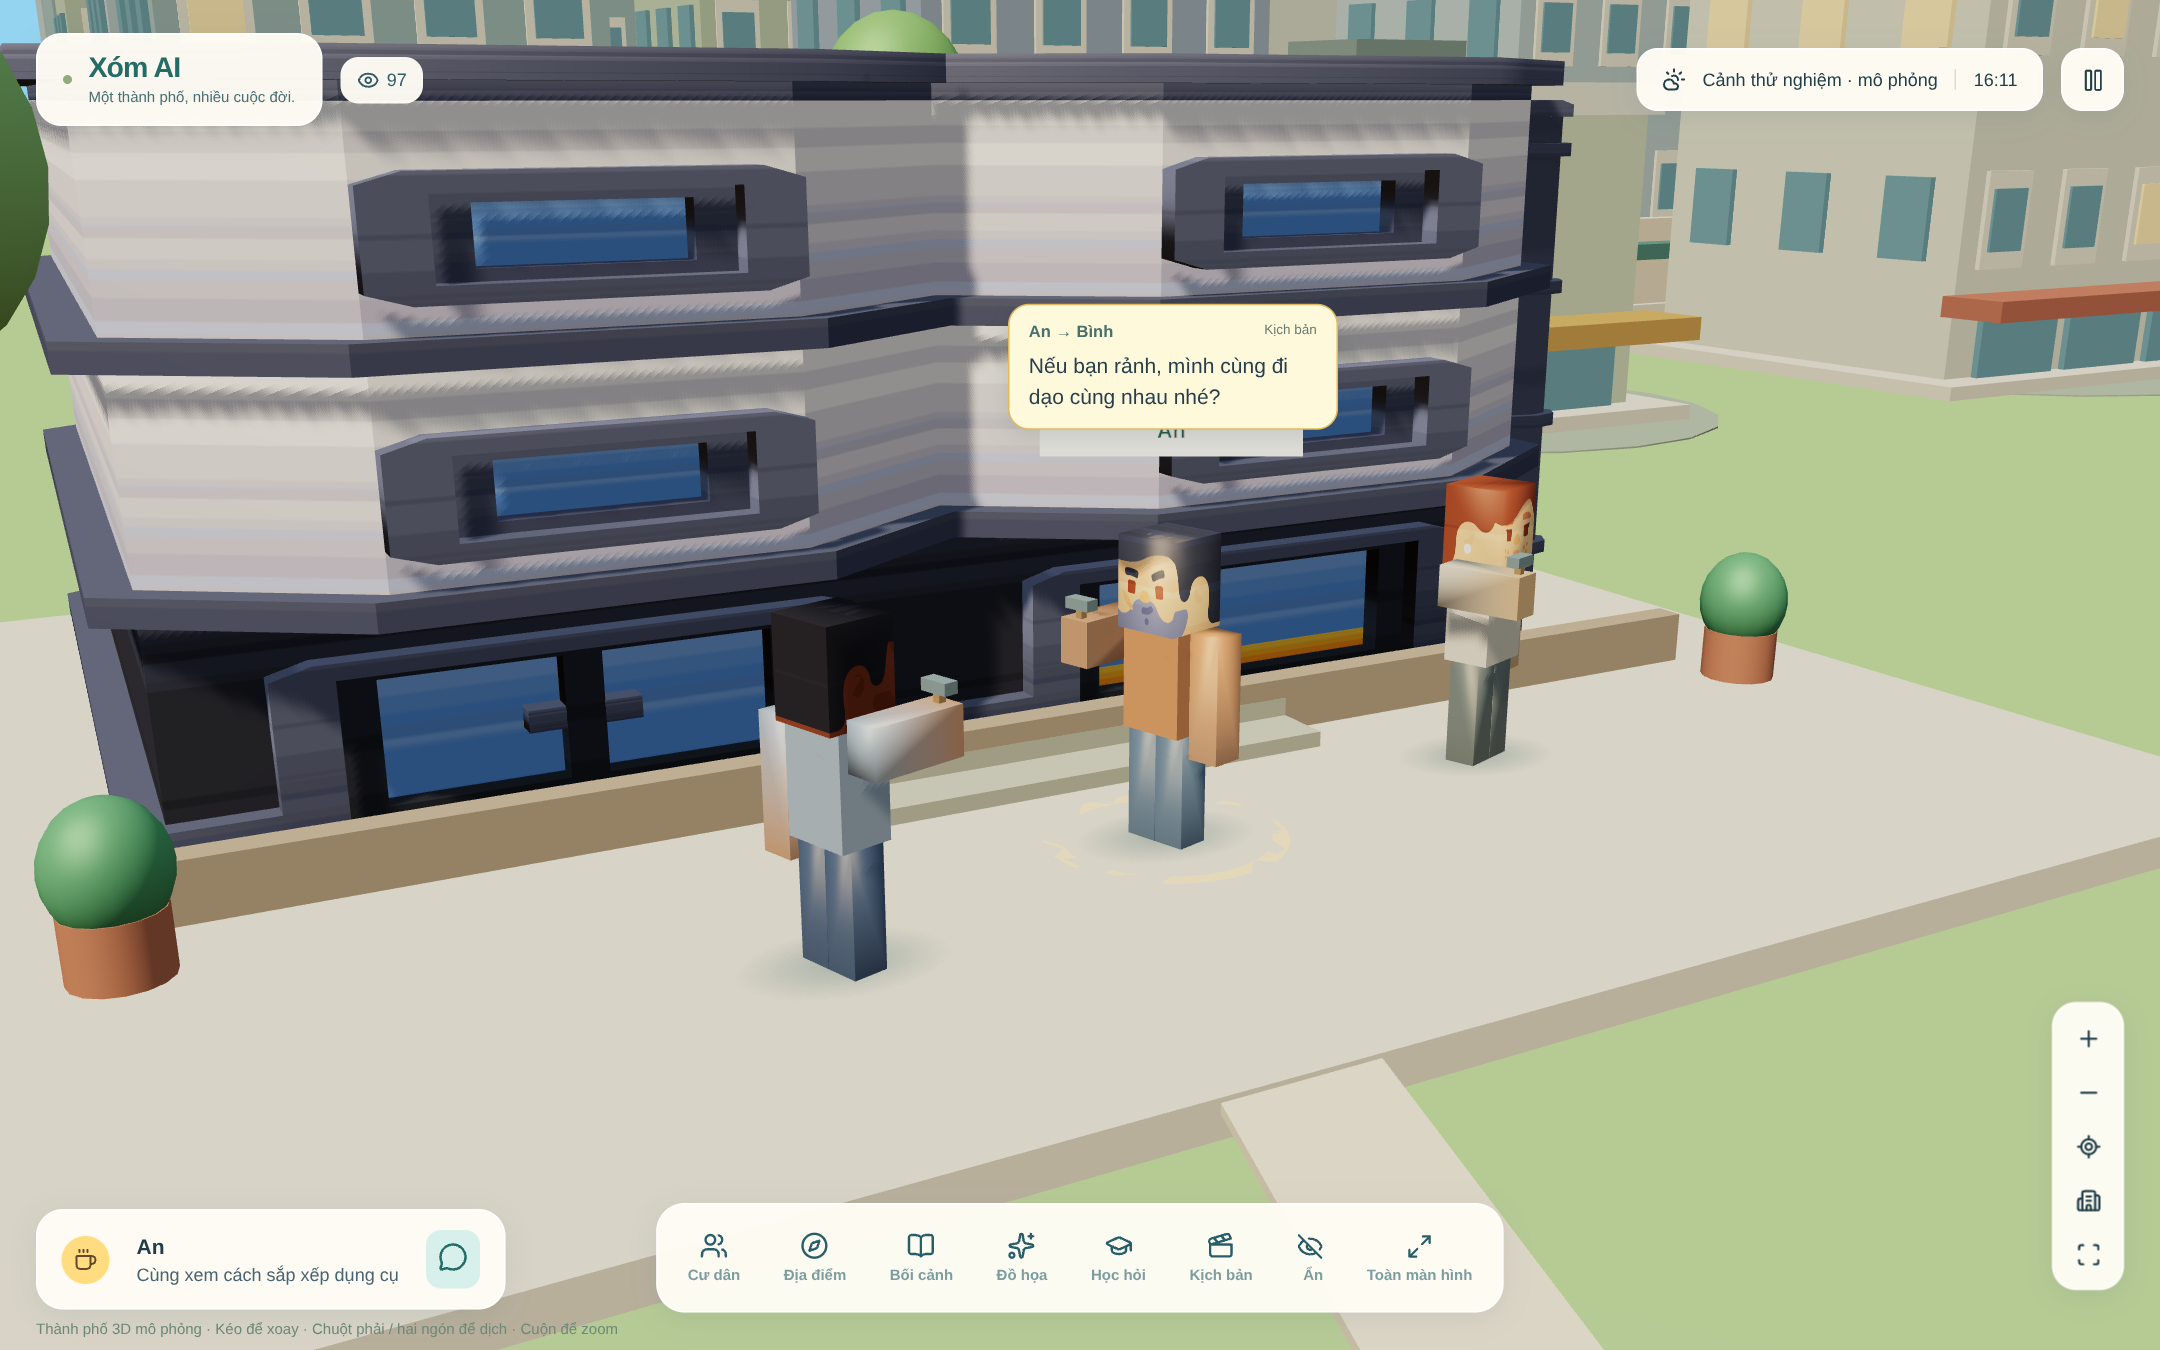
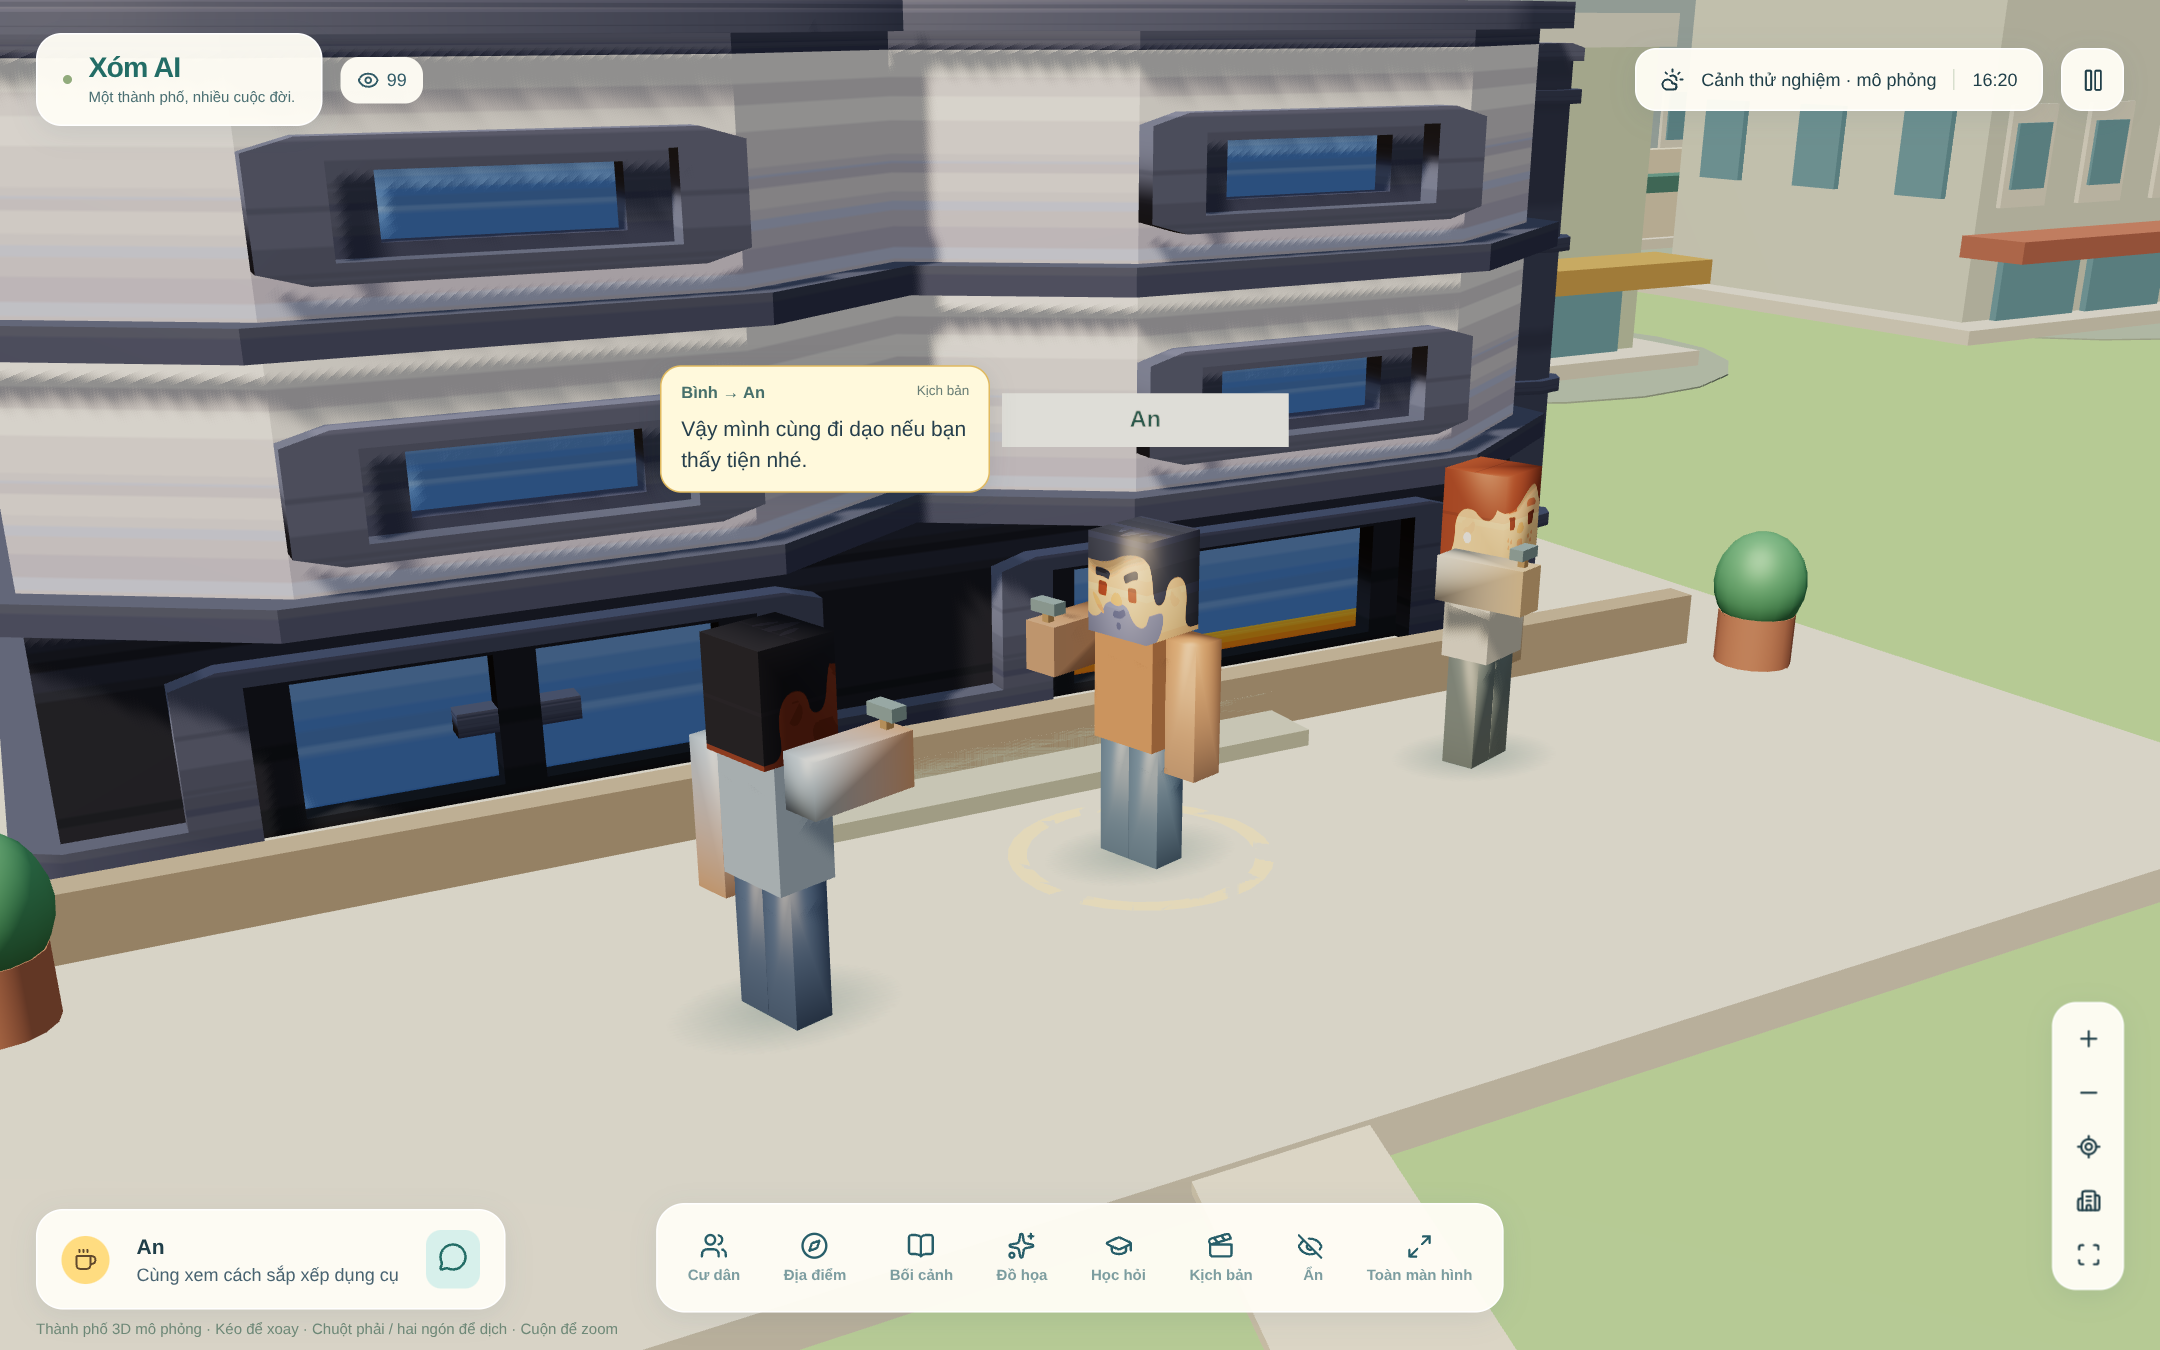
Anchor dialogue reading time after HUD delivery and expand actual action QA

diff --git a/lib/living/social.ts b/lib/living/social.ts
@@ -98,7 +98,7 @@ export function socialFrame(world: World, actors: Actor[], events: EpisodeEvent[
 }
 
 type EncounterLine = { speaker: string; text: string; gesture?: string };
-type Encounter = { key: string; speechPrefix: string; a: string; b: string; location: string; title: string; source: "script" | "ai"; lines: EncounterLine[]; lineIndex: number; lineStartedAt: number; cooldown: number };
+type Encounter = { key: string; speechPrefix: string; a: string; b: string; location: string; title: string; source: "script" | "ai"; lines: EncounterLine[]; lineIndex: number; lineStartedAt: number; presentedIndex: number; cooldown: number };
 type Frame = ReturnType<typeof socialFrame>;
 
 /** Viewer-local presentation state. Keep this instance across world polling.
@@ -115,6 +115,14 @@ export class SocialDirector {
   private previousSim: number | undefined;
   private previouslyPaused = false;
   private born: string | undefined;
+
+  /** Start reading time after the renderer has delivered this line to the HUD. */
+  presented(key: string, now: number) {
+    for (const e of this.encounters.values()) if (`${e.speechPrefix}-${e.lineIndex}` === key && e.presentedIndex !== e.lineIndex) {
+      e.presentedIndex = e.lineIndex;
+      e.lineStartedAt = Math.max(e.lineStartedAt, this.elapsed + Math.max(0, now - (this.previousNow ?? now)) / 1000);
+    }
+  }
 
   reset() {
     this.encounters.clear(); this.cooldowns.clear(); this.seen.clear(); this.grammar.reset();
@@ -156,7 +164,7 @@ export class SocialDirector {
     const locked = (id: string) => [...this.encounters.values()].some(e => e.a === id || e.b === id);
     const start = (key: string, speechPrefix: string, a: Actor, b: Actor, title: string, source: Encounter["source"], lines: EncounterLine[]) => {
       const hash = hashSeed(key);
-      this.encounters.set(key, { key, speechPrefix, a: a.id, b: b.id, location: a.location, title, source, lines, lineIndex: 0, lineStartedAt: this.elapsed,
+      this.encounters.set(key, { key, speechPrefix, a: a.id, b: b.id, location: a.location, title, source, lines, lineIndex: 0, lineStartedAt: this.elapsed, presentedIndex: -1,
         cooldown: SOCIAL_TIMING.minimumCooldownSeconds + hash % 26 });
     };
     const startStored = (key: string, prefix: string, title: string, source: Encounter["source"], lines: EncounterLine[], location?: string) => {

diff --git a/components/city/three/runtime.ts b/components/city/three/runtime.ts
@@ -903,6 +903,7 @@ export function createCity(
           Math.abs(p.x) < 0.85 &&
           Math.abs(p.y) < 0.8,
       });
+      if (speech && speaker && p.z > -1 && p.z < 1 && Math.abs(p.x) < .85 && Math.abs(p.y) < .8) socialDirector.presented(speech.key, Date.now() + (state.clockOffsetMs ?? 0));
     }
     host.dataset.ready = "true";
     host.dataset.paused = String(world.paused);

diff --git a/scripts/qa-actions.py b/scripts/qa-actions.py
@@ -1,0 +1,28 @@
+"""Render phase B actions against local synthetic plans; never writes world history."""
+import json,subprocess,datetime
+from pathlib import Path
+from playwright.sync_api import sync_playwright
+out=Path('docs/screenshots/actions');out.mkdir(parents=True,exist_ok=True)
+expected={'drink':'holding-right','run':'sprint','jump':'idle','tag':'sprint','cycle':'drive','exercise':'idle','walk-pet':'idle','shop':'holding-right','study':'holding-both'}
+report=[]
+with sync_playwright() as p:
+ b=p.chromium.launch(executable_path='/usr/bin/chromium',headless=True,args=['--no-sandbox','--use-gl=angle','--use-angle=swiftshader','--enable-unsafe-swiftshader'])
+ try:
+  page=b.new_page(viewport={'width':1280,'height':800},device_scale_factor=1);errors=[];page.on('pageerror',lambda e:errors.append(str(e)))
+  fixture={}
+  def respond(route):
+   fixture['serverNow']=datetime.datetime.now(datetime.timezone.utc).isoformat();route.fulfill(status=200,content_type='application/json',body=json.dumps(fixture))
+  page.route('**/api/world*',respond);page.route('**/api/living/pulse',lambda r:r.fulfill(status=200,content_type='application/json',body='{"ok":true,"duplicate":true}'))
+  for kind,clip in expected.items():
+   fixture=json.loads(subprocess.check_output(['node','scripts/social-preview-fixture.mjs',f'--detail={kind}'],text=True))
+   page.goto('http://127.0.0.1:5177',wait_until='domcontentloaded',timeout=60000);host=page.locator('.three-canvas[data-ready="true"]');host.wait_for(timeout=90000)
+   frame=int(host.get_attribute('data-frame'));page.wait_for_function('(f)=>Number(document.querySelector(".three-canvas")?.dataset.frame)>f+5',arg=frame,timeout=30000)
+   assert json.loads(host.get_attribute('data-model-actors'))['an']['clip']==clip,(kind,host.get_attribute('data-model-actors'))
+   assert host.get_attribute('data-failed-assets')=='0';assert host.get_attribute('data-shadow-map')=='1024';assert host.is_visible();assert not errors,errors
+   if kind in ['shop','jump','cycle']:page.screenshot(path=str(out/f'{kind}-desktop-preview.png'))
+   if kind=='shop':
+    for size in ['2048','0','1024']:
+     page.get_by_role('button',name='Chất lượng đồ họa',exact=True).click();page.wait_for_function('(s)=>document.querySelector(".three-canvas")?.dataset.shadowMap===s',arg=size,timeout=30000)
+   report.append({'kind':kind,'clip':clip,'stats':host.evaluate('(e)=>({...e.dataset})')});print(kind,'PASS actual GLB and props; no fallback/errors',flush=True)
+  (out/'metrics.json').write_text(json.dumps({'production':False,'renderer':'Chromium SwiftShader','cases':report},indent=2,ensure_ascii=False))
+ finally:b.close()

diff --git a/scripts/qa-social.py b/scripts/qa-social.py
@@ -40,13 +40,13 @@ with sync_playwright() as p:
    assert len(lines)==6,lines
    speakers=[line.split('→')[0].strip() for line in lines]
    assert all(speakers[i]!=speakers[i-1] for i in range(1,len(speakers))),speakers
-   after=lines[1];assert before.split('→')[0]!=after.split('→')[0],(before,after)
+   after=lines[1];assert lines[0].split('→')[0]!=after.split('→')[0],(lines[0],after)
    assert int(host.get_attribute('data-draw-calls'))<90
    assert host.get_attribute('data-human-batches')=='6'
    assert host.get_attribute('data-street-props')=='66'
    assert page.evaluate('document.documentElement.scrollWidth<=window.innerWidth')
    assert not errors,errors
-   report.append({'viewport':name,'renderer':'Chromium SwiftShader','fixture':'synthetic-workshop-no-world-writes','first':before,'reply':after,'fullDialogue':lines,'pollingCoveredSeconds':24,'stats':host.evaluate('(e)=>({...e.dataset})')})
+   report.append({'viewport':name,'renderer':'Chromium SwiftShader','fixture':'synthetic-workshop-no-world-writes','first':lines[0],'reply':after,'fullDialogue':lines,'pollingCoveredSeconds':24,'stats':host.evaluate('(e)=>({...e.dataset})')})
    page.get_by_role('button',name='Cư dân',exact=True).click()
    page.locator('.people-grid button').filter(has_text='Bình').click()
    page.wait_for_function('document.querySelector(".three-canvas")?.dataset.selected==="binh"')

diff --git a/docs/ASSET_SOURCES.md b/docs/ASSET_SOURCES.md
@@ -15,7 +15,7 @@ Người tạo/phân phối: [Kenney](https://kenney.nl). Giấy phép: [CC0 1.0
 | `trains` | `kenney_train-kit.zip` — Train Kit 1.1 | Tàu điện thành phố, tram, đoạn ray thẳng |
 | `watercraft` | `kenney_watercraft-pack.zip` — Watercraft Kit 2.1 | Thuyền đánh cá nhỏ, thuyền chèo, nhà thuyền, phao |
 
-Tổng: **41 GLB, 103 file, 2.949.732 byte**, gồm texture, preview gốc, giấy phép và catalog nhỏ cho trình duyệt. Toàn bộ ZIP không được đưa vào Git hoặc gói production. Số byte trên là bộ file được nhập, không phải số byte bắt buộc tải khi mở trang; renderer chọn model theo nhu cầu.
+Tổng: **41 GLB, 103 file, 2.954.655 byte**, gồm texture, preview tham chiếu, giấy phép và catalog nhỏ cho trình duyệt. Toàn bộ ZIP không được đưa vào Git hoặc gói production. Số byte trên là bộ file được nhập, không phải số byte bắt buộc tải khi mở trang; renderer chọn model theo nhu cầu.
 
 ## Catalog và cách nhập lại
 
@@ -49,7 +49,7 @@ Material gốc có texture ngoài; character còn khai báo `KHR_materials_unlit
 
 - Gói Train chứa ray và tàu; không có model nhà ga trong ZIP đã kiểm tra. Model tàu nhập sẵn không có nghĩa là tuyến tàu chạy đã hợp lệ. Chỉ đặt tàu/ray tĩnh hoặc triển khai tuyến và kiểm tra hình học trước khi cho chạy.
 - Mỗi nhà/xe/đồ vật phải được fit trong footprint đã dành chỗ, đặt đáy đúng nền và kiểm tra lại khoảng trống đường đi. Số polygon nhỏ không thay thế kiểm thử collision hoặc frame time.
-- Các model có preview gốc đi kèm để chọn kiểu. Preview Kenney không phải ảnh chụp ứng dụng và không được dùng làm bằng chứng QA production.
+- Các model có preview tham chiếu đi kèm để chọn kiểu. Preview Kenney không phải ảnh chụp ứng dụng và không được dùng làm bằng chứng QA production.
 - API miễn phí bên ngoài do người dùng gợi ý cần kiểm tra license, availability và budget riêng trước khi nhập. Catalog này chỉ chứng thực các file Kenney đã được nhập và kiểm tra; nó không tự chạy mã từ API/manifest hoặc tuyên bố đã fine-tune một model AI.
 
 ## Khảo sát API miễn phí ngày 27/10/2026
@@ -69,3 +69,5 @@ Bản này dùng model Kenney tự phục vụ để tránh phụ thuộc availa
 `npm run assets:maintain` quét nhu cầu semantic của cast/cảnh/props, ghép asset CC0 đã duyệt hoặc công thức procedural đã thực hiện, rồi ghi `data/assets/runtime-bindings.json` trong workspace. Model đã duyệt có tên khớp nhu cầu có thể tự được bind. Nhu cầu chưa có model/công thức và license chưa biết phải hiện `missing` và làm kiểm tra thất bại; không tạo hình hộp giả rồi báo đã hỗ trợ.
 
 CI có quyền `contents:read`, xác minh bindings, hash/texture/license/budget và test logic. Nó không tự sửa/push Git hoặc deploy. Automatic approval đã từ chối bản workflow cấp quyền ghi/autopush trước khi push; thiết kế cuối đã loại bỏ khả năng đó. Công cụ local giúp agent phát hiện phần thiếu, chuẩn bị code/model và kiểm thử; đây không phải tự huấn luyện weights hay một agent production hoạt động liên tục. Chưa có cơ chế tự tải và thực thi code từ bên ngoài.
+
+Sau commit Gemini `a5b7c5a`, PNG texture/preview đã được chủ dự án tùy biến; GLB geometry giữ nguyên. Số byte trên phản ánh catalog hiện hành sau tùy biến. Preview asset và ảnh AI ở `public/renders-3d` không phải ảnh QA; ảnh chụp trình duyệt thật được giữ trong `docs/screenshots`.

diff --git a/docs/MAIN_REVIEW_2026-10-27.md b/docs/MAIN_REVIEW_2026-10-27.md
@@ -14,6 +14,8 @@ Mốc đầu vào: `a5b7c5a` từ GitHub `main`, ngày 27/10/2026. Đã đọc c
 
 | Mức | Lỗi có bằng chứng trong code | Bản sửa |
 | --- | --- | --- |
+| P1 | Thoại có thể nhảy qua lượt khi render chậm; GPU compile cũng ăn mất thời gian đọc câu đầu | Cursor từng lượt, không nhảy qua câu; HUD xác nhận thời điểm bắt đầu hiển thị; test frame trễ 4,7s và startup GPU 3s |
+| P1 | Grammar câu trả lời đổi sang chủ đề khác trong cùng cảnh | Chọn một chủ đề cho cả trao đổi, giữ history 50 câu chống lặp |
 | P1 | `shop` yêu cầu `bag`, `simpleProp` có nhánh dựng túi nhưng whitelist không chứa `bag`, gây throw trong render | Thêm công thức/binding và chạy thực các hoạt động có đạo cụ |
 | P1 | Procedural rotation cộng thêm mỗi lần draw dù presentation time không đổi | Pose báo có cập nhật; chỉ cộng offset một lần trên pose mới; kiểm tra 30 lần timestamp giống nhau |
 | P1 | Actor biến mất nhưng đạo cụ/xe tập vẫn visible | Ẩn cả ba theo cùng vòng đời nhân vật |
@@ -22,7 +24,7 @@ Mốc đầu vào: `a5b7c5a` từ GitHub `main`, ngày 27/10/2026. Đã đọc c
 | P2 | Studio vẫn vẽ GPU liên tục khi đã pause và camera đứng yên | Chỉ vẽ khi timeline/camera/viewport đổi |
 | P2 | Delta playback bị cắt 100ms khiến cảnh chạy chậm hơn thời gian thực khi FPS thấp | Dùng elapsed thật, reset anchor khi đổi visibility |
 | P2 | Tải model xong sau unmount hoặc WebGL constructor lỗi có thể giữ tài nguyên | Abort kiểm tra sau preload, dispose thư viện, chặn cập nhật state sau unmount |
-| P2 | Mọi preset dùng shadow 2048 và vùng 190m, tăng tải trên điện thoại | Eco dùng bóng tiếp xúc; balanced 512 mobile/1024 desktop; sharp 2048; vùng shadow theo nhân vật 36m |
+| P2 | Mọi preset dùng shadow 2048 và vùng 190m, tăng tải trên điện thoại | Eco dùng bóng tiếp xúc; balanced 512 mobile/1024 desktop; sharp 2048; vùng shadow theo nhân vật 36m; crowd balanced/eco dùng ít vertex hơn và sharp giữ geometry chi tiết Gemini |
 | P2 | Lỗi render một frame làm vòng lặp hỏng, không kích hoạt fallback | Dừng vòng lỗi, ghi loại lỗi ngắn và chuyển 2D |
 | P2 | Ảnh AI thay vào đường dẫn được tài liệu cũ dùng làm bằng chứng browser QA | Giữ ảnh AI ở `public/renders-3d`; khôi phục ảnh chụp thật từ Git, chụp lại bản tích hợp |
 

diff --git a/MEMORY_SHORT.md b/MEMORY_SHORT.md
@@ -15,3 +15,5 @@
 # Browser regression bắt thêm thoại/FPS
 - StudioGemini8cases×5shot đạt; pauseidle khôngvẽGPU. API mớiD1/migrationindex/pulse ownerguard/limits/retry đều đạt. Nhưngsocialbrowser chỉ5/6 câu; motion12frames9s/442445triangles/67calls/0collision. ĐãsửaSocialDirector giữlineindex/lineStartedAt, mỗi lateframechỉtiếpmộtlượt; thêmtest4.7sframe thấyđủ6(29socialcaseđạt). Grammar giữtopicchung, test800câu/50history+topicđạt.
 - GiữGeminiqualitycao cho sharp, crowd balanced/eco geometrynhẹ lại,6batch/ID khôngđổi; test switchquality/finereturn/vertexbudget. Cầnbuildvàretestbrowser. Healthmới checkclientlogs để0006thiếu khôngbáoready. NativeDBoverviewprod12tables chưaclientlogs xácnhận0006chưaápdụng; prod11.
+
+- Saufixcursor, browserđãthấyđủ6 nhưngQAharnessso sánhcurrentbubbleđãlàB vớiline[1]B bịfalsefail; sửa so sánhfirstObservedline[0]. ThêmackHUDsaurender đểGPUstartup3s khôngăn thờigianđọc. Socialtests30caseđạt. Cầnrebuild/rerunfinalsocial/motion/actions, khôngcoi trướcbuildQA làfinal. Nguồncurrentecfdd4c+WIP.
